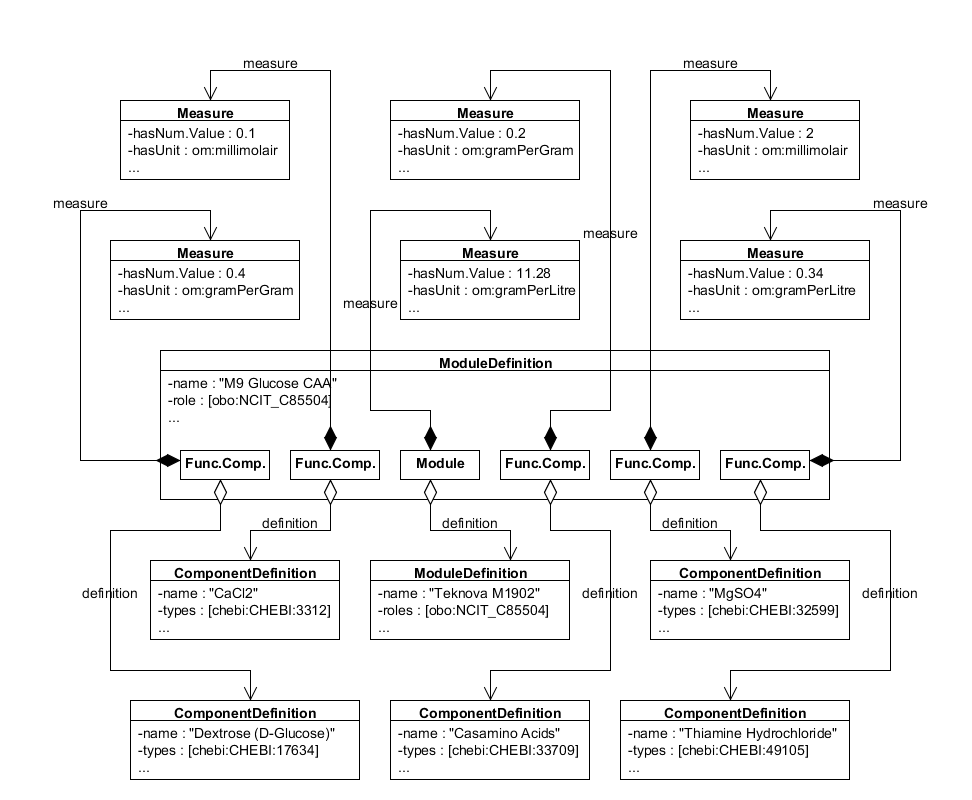
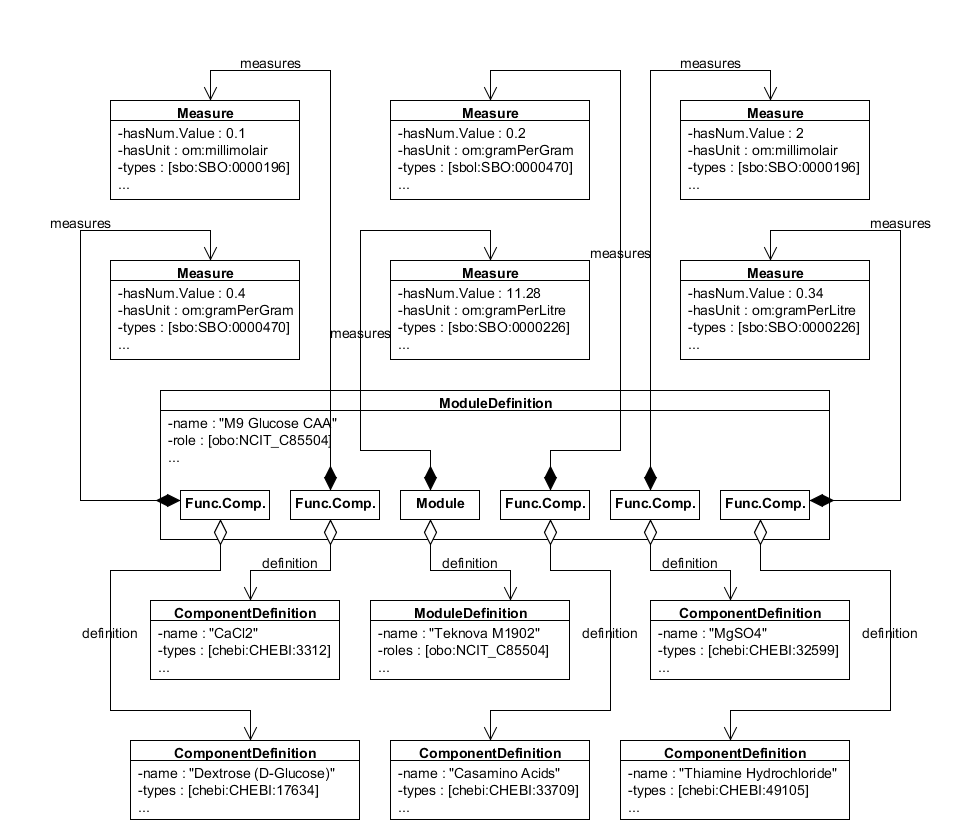
Update SEP 028 by renaming measure property to measures and adding types to Measure objects in example.

diff --git a/sep_028.md b/sep_028.md
@@ -76,12 +76,12 @@ The purpose of the `Prefix` class is to describe a standard factor for defining 
 
 ### 2.2 SBOL Class Extensions<a name="sbol_extension"></a>
 
-In order for relevant SBOL classes to be linked to parameters or measurements and their associated units, we propose adding an OPTIONAL `measure` property to the `FunctionalComponent`, `Module`, `Interaction`, and `Participation` classes. This property MAY specify a set of `Measure` objects contained by the parent. For example, an `Interaction` that represents a chemical reaction may have parameters added to it and each `Participation` it contains to capture its chemical kinetic rate and the stoichiometries of its reactants and products. A `ModuleDefinition` that represents growth media recipe may have measures added to each `FunctionalComponent` "ingredient" it contains and/or each `Module` "sub-media" that it includes.
+In order for relevant SBOL classes to be linked to parameters or measurements and their associated units, we propose adding an OPTIONAL `measures` property to the `FunctionalComponent`, `Module`, `Interaction`, and `Participation` classes. This property MAY specify a set of `Measure` objects contained by the parent. For example, an `Interaction` that represents a chemical reaction may have parameters added to it and each `Participation` it contains to capture its chemical kinetic rate and the stoichiometries of its reactants and products. A `ModuleDefinition` that represents growth media recipe may have measures added to each `FunctionalComponent` "ingredient" it contains and/or each `Module` "sub-media" that it includes.
 
 ## 3. Example or Use Case <a name='example'></a>
 -------------------------------
 
-Figure 2 shows an example of using instances of the `Measure` and `Unit` classes in conjunction with instances of the SBOL `ModuleDefinition` and `ComponentDefinition` classes to specify a growth medium recipe. Note that this specification for M9 Glucose CAA media is partly composed from the specification of another growth medium, Teknova M1902. Namespace abbreviations used in this example include `om` for `http://www.ontology-of-units-of-measure.org/resource/om-2/`, `obo` for `http://purl.obolibrary.org/obo/`, and `chebi` for `http://identifiers.org/chebi/`. C85504 codes for the term "growth medium" in the National Cancer Institute Thesaurus (NCIT).
+Figure 2 shows an example of using instances of the `Measure` and `Unit` classes in conjunction with instances of the SBOL `ModuleDefinition` and `ComponentDefinition` classes to specify a growth medium recipe. Note that this specification for M9 Glucose CAA media is partly composed from the specification of another growth medium, Teknova M1902. Namespace abbreviations used in this example include `om` for `http://www.ontology-of-units-of-measure.org/resource/om-2/`, `obo` for `http://purl.obolibrary.org/obo/`, `chebi` for `http://identifiers.org/chebi/`, and `sbo` for `http://identifiers.org/biomodels.sbo/`. C85504 codes for the term "growth medium" in the National Cancer Institute Thesaurus (NCIT). For specifying `Measure` `types` with SBO, 0000196 codes for "concentration of an entity pool", 0000226 codes for "density of an entity pool", and 0000470 codes for "mass fraction."
 
 ![Media recipe diagram](images/sep_028_media_recipe_example.png "Media recipe diagram")
 
